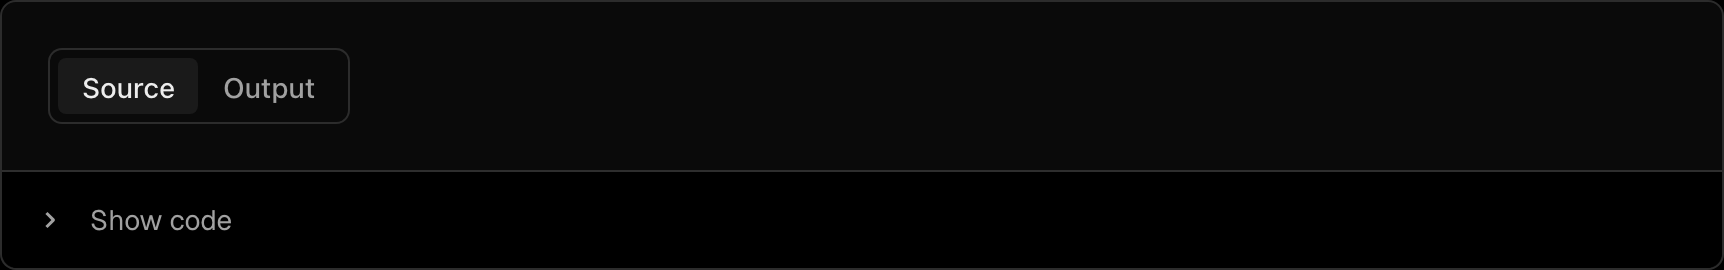
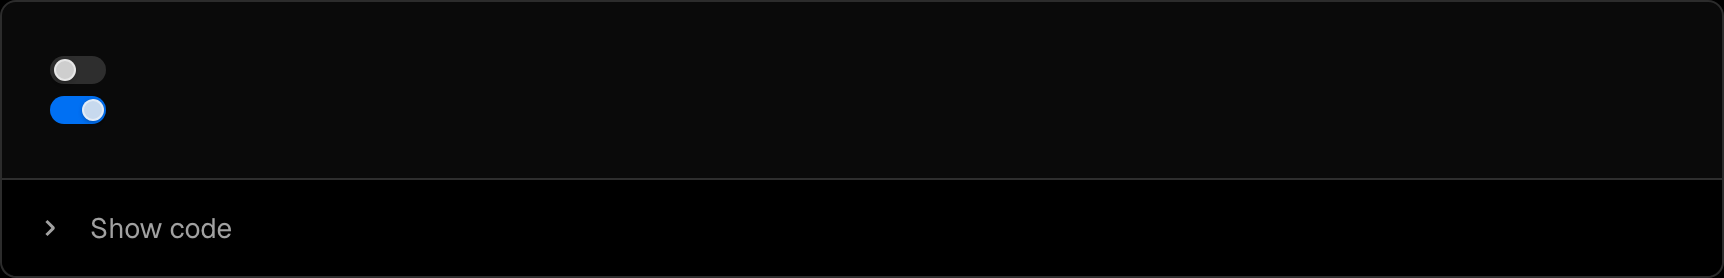
fix(www): align Vercel preset globals with measured Geist values

Changed region(s): [[0.0, 0.6222, 1.0, 0.6519], [0.0307, 0.1778, 0.2152, 0.4741], [0.0307, 0.7704, 0.1537, 0.8593]]

diff --git a/www/src/modules/presets/presets-data.ts b/www/src/modules/presets/presets-data.ts
@@ -42,9 +42,11 @@ function makeDesignSystem(opts: {
   fonts?: { heading?: string; body?: string; mono?: string }
   /** Per-component param overrides on top of the builder defaults. */
   components?: Record<string, Record<string, string>>
+  /** Raw token overrides (semantic color roles, etc.). */
+  tokens?: Record<string, string>
 }): DesignSystem {
   const { neutral, accent, density = 'default' } = opts
-  const tokens: Record<string, string> = {}
+  const tokens: Record<string, string> = { ...opts.tokens }
   if (opts.radiusFactor) tokens['--radius-factor'] = opts.radiusFactor
   if (opts.fonts?.heading)
     tokens[FONT_HEADING_VAR] = fontStack(opts.fonts.heading)
@@ -72,17 +74,27 @@ export const PRESETS: Preset[] = [
   {
     id: 'vercel',
     name: 'Vercel',
-    description: 'Monochrome, tight radii.',
+    description: 'Monochrome, hairline borders.',
     swatch: '#cbd5e1',
     designSystem: makeDesignSystem({
       neutral: '#737373',
       accent: '#171717',
-      radiusFactor: '0.5',
-      density: 'compact',
+      // Geist runs a 14px/32px UI scale at 6px radii — our defaults, not compact/0.5
+      // (verified against live computed styles; see issue #484 Phase 1 audit).
+      density: 'default',
       // A pure-gray accent: zero vividness keeps the ramp from tinting back up
       // (Geist-style neutral primary).
       vividness: 0,
-      components: { command: { style: '3' } },
+      components: {
+        command: { style: '3' },
+        badge: { radius: '--radius-full' },
+      },
+      tokens: {
+        // Geist hairlines sit two ramp steps lighter than our border default.
+        '--color-border': 'var(--neutral-200)',
+        // Vercel's focus ring is opaque blue, not the monochrome accent.
+        '--color-border-focus': '#0072f5',
+      },
     }),
   },
   {